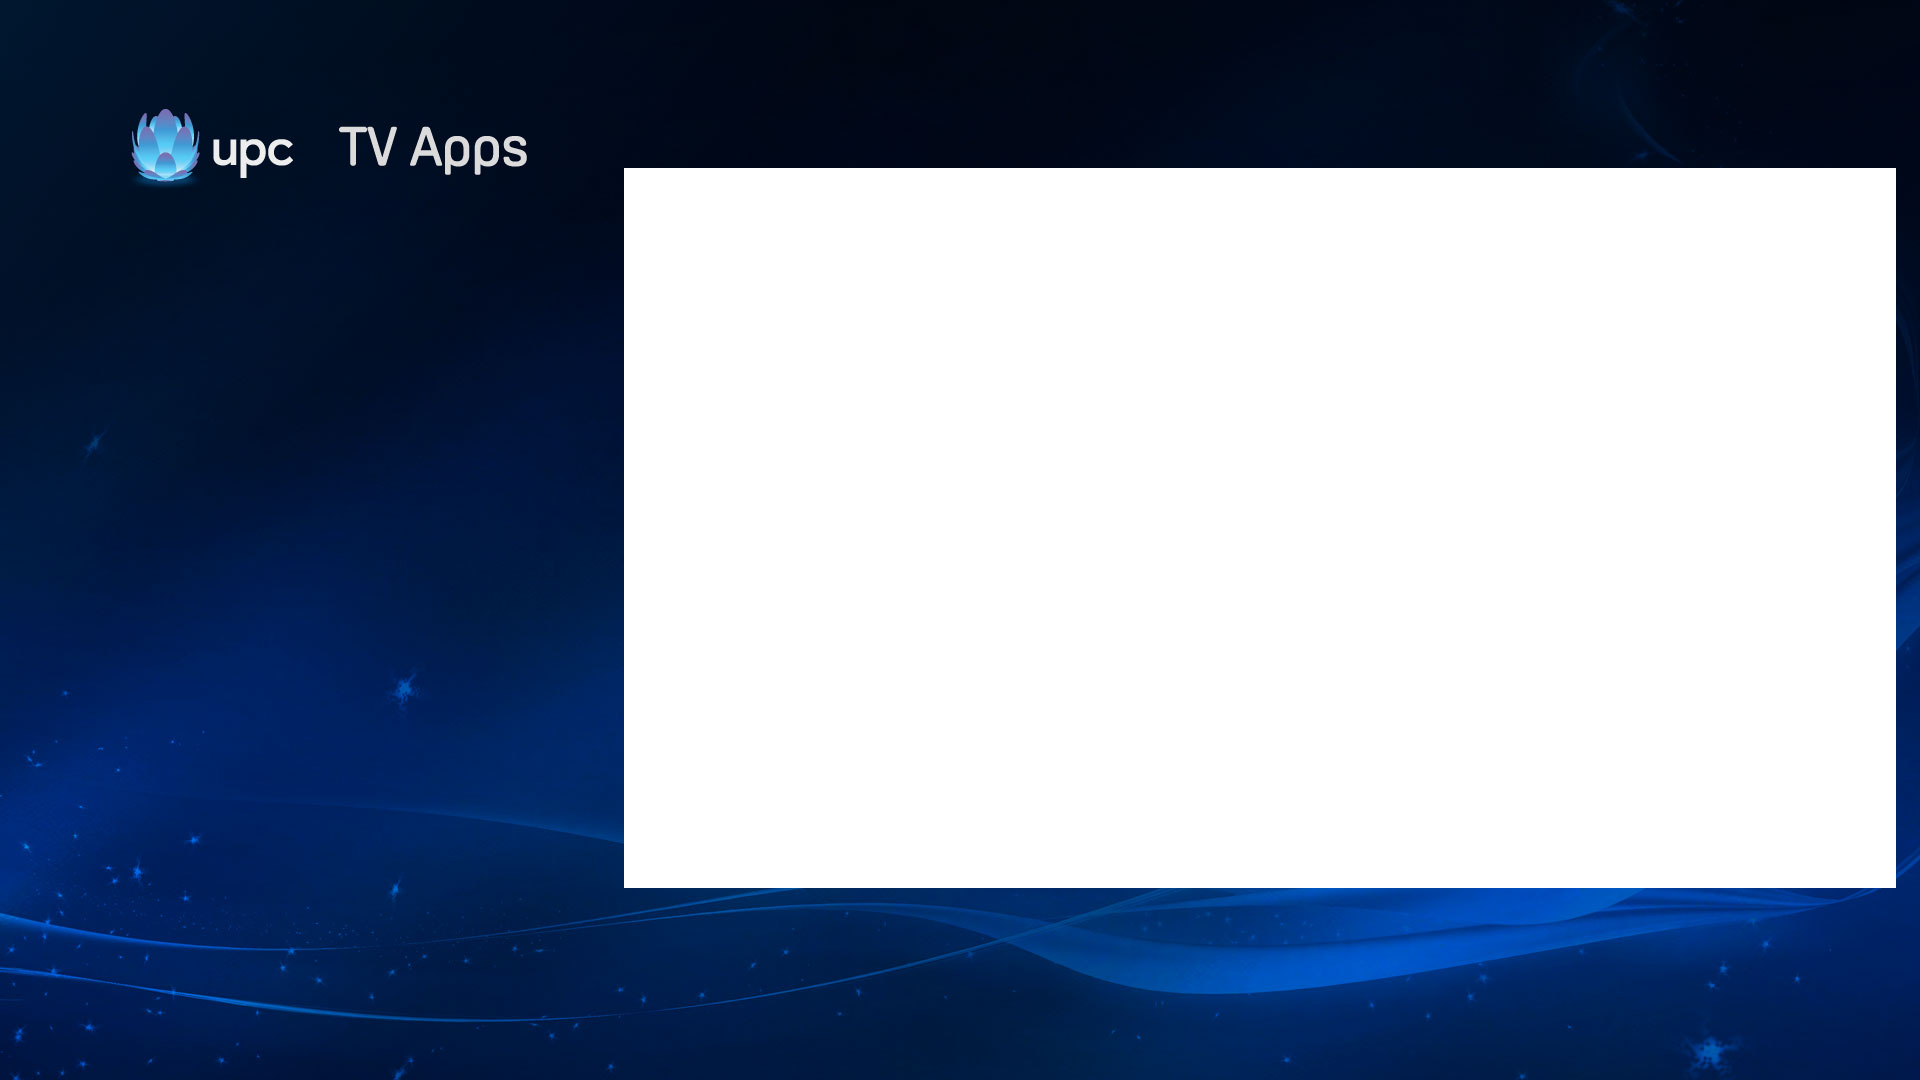
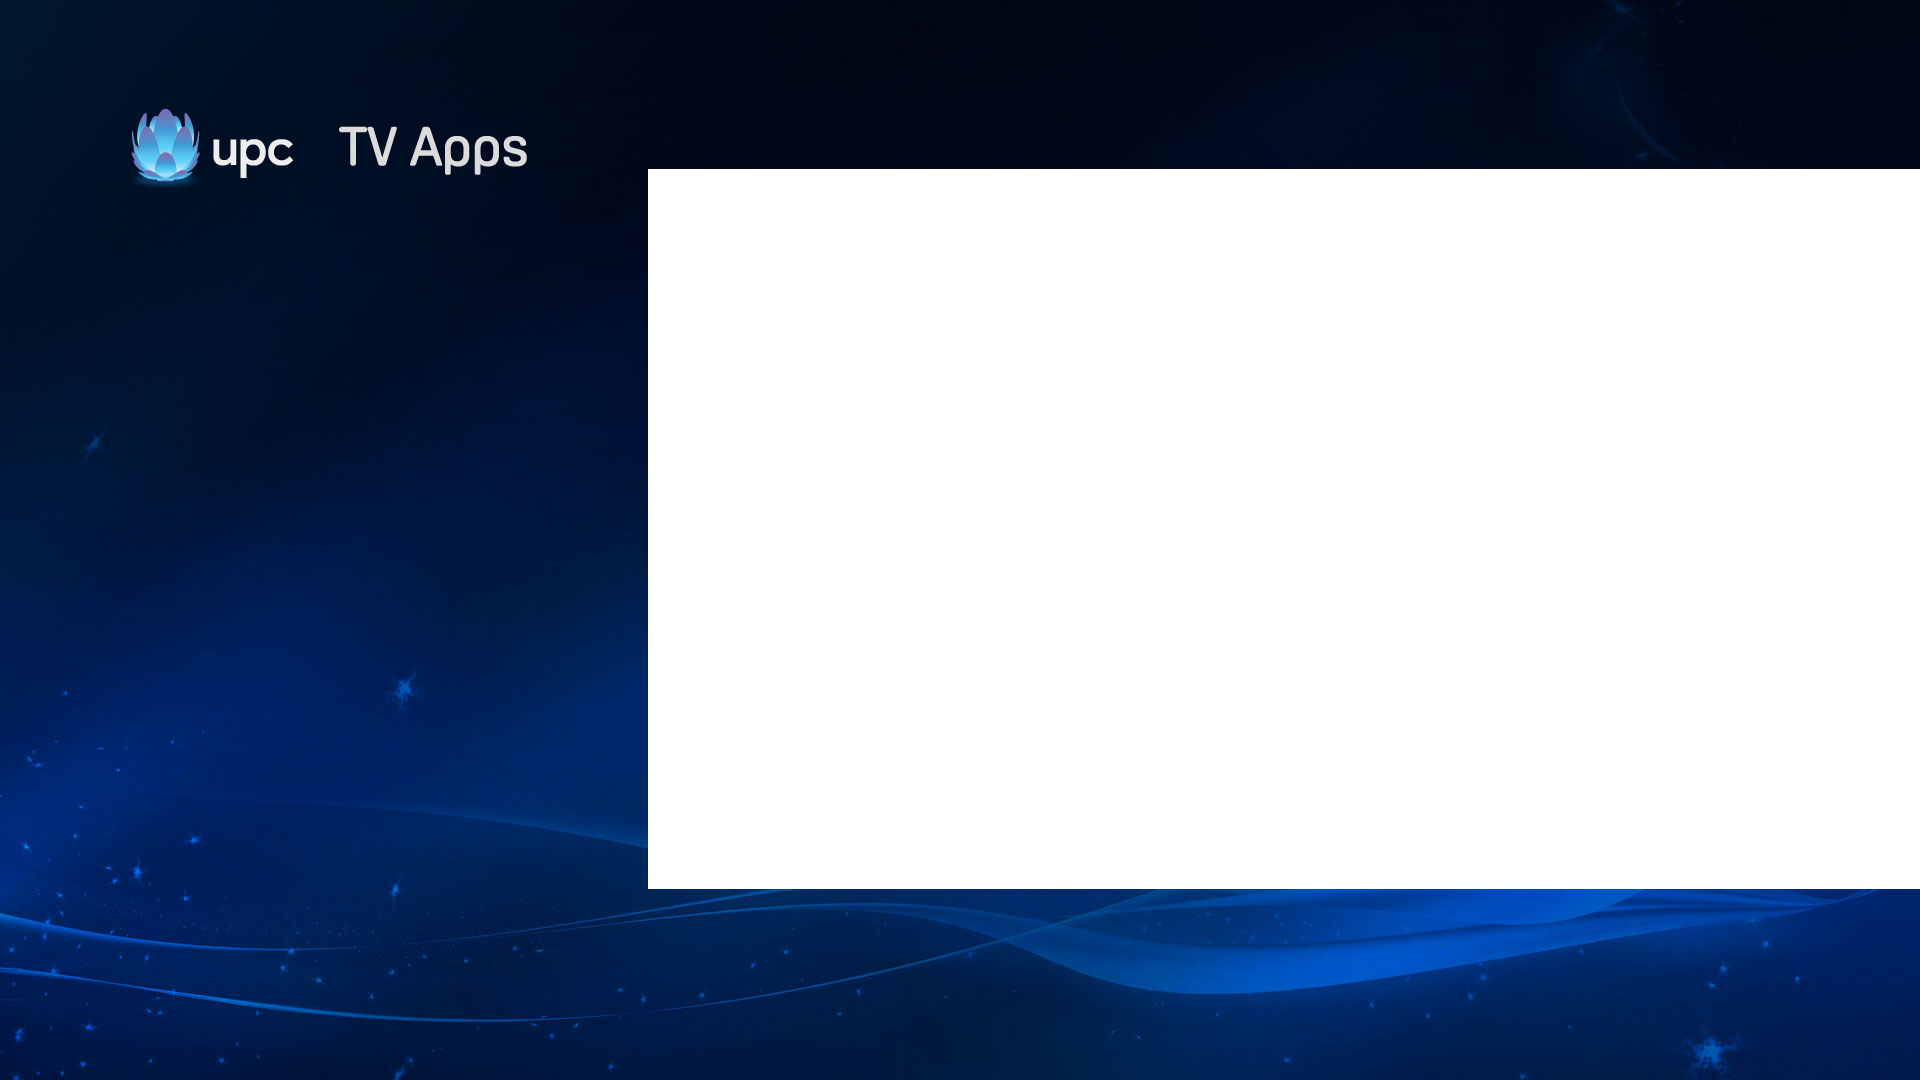
d4a: change position of side-by-side

Changed region(s): [[0.9688, 0.1528, 1.0, 0.825], [0.3125, 0.1528, 0.3438, 0.825]]

diff --git a/apps/com.metrological.ui.D4A/Contents/Javascript/core/ApplicationManager.js b/apps/com.metrological.ui.D4A/Contents/Javascript/core/ApplicationManager.js
@@ -113,7 +113,7 @@ var loadTemplate = (function () {
 							width: 588,
 							height: 1032,
 							top: 22,
-							left: 32
+							left: 56
 						},
 						events: {
 							select: function (event) {
@@ -1055,7 +1055,7 @@ widget.handleHostEvent = function (event) {
 					var mediaplayer = this.MAF.mediaplayer,
 						bounds = mediaplayer && mediaplayer.getViewportBounds();
 					if (bounds && bounds.width === 1920) {
-						mediaplayer.setViewportBounds(624, 168, 1272, 720);
+						mediaplayer.setViewportBounds(648, 168, 1272, 720);
 					} else if (bounds) {
 						mediaplayer.setViewportBounds(0, 0, 1920, 1080);
 					}
